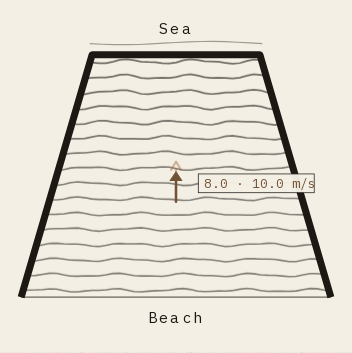
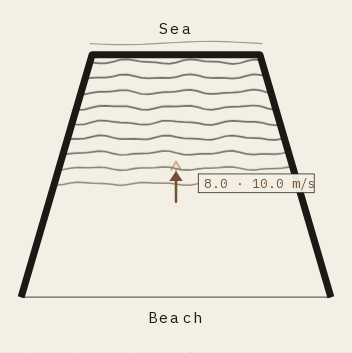
Fix sea overwash gap and steepen plan shelter gradient
Sea mode: draw open-water waves after the wall fill, stack crest-column
strokes from surface down to the crest, and cap with a 2px ink join so
the wall column is not a hollow paper band (the crest Y clamp was wrong).

Plan: sample shelter along each wind row (not max across the row), keep
wind boost out of the calm band, lower CALM_ROUGHNESS_MULT, and use a
shorter cubic ramp. QA checks crest gap across the full wall width.

diff --git a/components/section-canvas.tsx b/components/section-canvas.tsx
@@ -11,7 +11,6 @@ import {
   heldRipple,
   heldSurface,
   resolveSection,
-  seaWashClearsWall,
   surfaceRipple,
   swellOffset,
   waterlineU,
@@ -186,34 +185,27 @@ function paint(
 
   const ySurface = (u: number) => yOf(surface(u));
 
-  const band = (u0: number, u1: number) => {
+  const waveY = (depth: number) => (u: number) => {
+    const y = ySurface(u) + depth;
+    if (section.mode === "sea" && u >= WALL_U0 && u <= WALL_U1) {
+      if (surface(u) <= 1) return Number.NaN;
+      if (y >= wallY - 1) return Number.NaN;
+    }
+    return y;
+  };
+
+  const waveBand = (u0: number, u1: number) => {
     if (u1 - u0 < 0.08) return;
-    drawRuns(ctx, u0, u1, ySurface, 1.55, 0.92);
+    drawRuns(ctx, u0, u1, waveY(0), 1.55, 0.92);
     for (let i = 1; i <= motion.lines; i++) {
       const depth = 5 + i * (6 + section.chopLevel * 0.6);
       const alpha = Math.max(0.1, 0.48 - i * 0.05);
-      drawRuns(ctx, u0, u1, (u) => ySurface(u) + depth, 0.8, alpha);
+      drawRuns(ctx, u0, u1, waveY(depth), 0.8, alpha);
     }
   };
 
-  /** Strokes over the crest only. Anything at or below the crest would cut the wall. */
-  const washOverCrest = (u0: number, u1: number) => {
-    if (u1 - u0 < 0.08) return;
-    const crestInkY = yOf(1);
-    const yIfClear = (depth: number) => (u: number) => {
-      if (!seaWashClearsWall(surface(u), depth, PX)) return Number.NaN;
-      return Math.max(ySurface(u) + depth, crestInkY);
-    };
-    drawRuns(ctx, u0, u1, yIfClear(0), 1.45, 0.94);
-    for (let i = 1; i <= motion.lines; i++) {
-      const depth = 5 + i * (6 + section.chopLevel * 0.6);
-      const alpha = Math.max(0.12, 0.5 - i * 0.045);
-      drawRuns(ctx, u0, u1, yIfClear(depth), 0.85, alpha);
-    }
-  };
-
-  band(Math.min(shore, WALL_U0), WALL_U0);
-  band(WALL_U1, RATIO_SUM);
+  waveBand(Math.min(shore, WALL_U0), WALL_U0);
+  if (section.mode !== "sea") waveBand(WALL_U1, RATIO_SUM);
 
   stroke(ctx, chalkPoints(0, WALL_U0, 0), 1.75, 0.95);
   stroke(ctx, chalkPoints(WALL_U1, RATIO_SUM, 0), 1.75, 0.95);
@@ -263,9 +255,34 @@ function paint(
   ctx.strokeStyle = INK;
   ctx.lineWidth = 2.2;
   ctx.lineJoin = "miter";
-  ctx.strokeRect(wallX, wallY, wallW, wallH);
+  if (section.mode === "sea") {
+    ctx.beginPath();
+    ctx.moveTo(wallX, wallY + wallH);
+    ctx.lineTo(wallX, wallY);
+    ctx.moveTo(wallX + wallW, wallY);
+    ctx.lineTo(wallX + wallW, wallY + wallH);
+    ctx.moveTo(wallX, wallY + wallH);
+    ctx.lineTo(wallX + wallW, wallY + wallH);
+    ctx.stroke();
+  } else {
+    ctx.strokeRect(wallX, wallY, wallW, wallH);
+  }
 
-  if (section.mode === "sea") washOverCrest(WALL_U0, WALL_U1);
+  if (section.mode === "sea") {
+    waveBand(WALL_U0, RATIO_SUM);
+    let minSurfaceY = Infinity;
+    for (let u = WALL_U0; u <= WALL_U1 + 1e-6; u += 0.05) {
+      if (surface(u) <= 1) continue;
+      minSurfaceY = Math.min(minSurfaceY, ySurface(u));
+    }
+    if (Number.isFinite(minSurfaceY) && minSurfaceY < wallY - 1.5) {
+      for (let y = minSurfaceY; y <= wallY; y += 1.75) {
+        drawRuns(ctx, WALL_U0, WALL_U1, () => y, 1.2, 0.94);
+      }
+      ctx.fillStyle = INK;
+      ctx.fillRect(wallX, wallY - 1, wallW, 2.2);
+    }
+  }
 }
 
 export function SectionCanvas({

diff --git a/lib/shelter.ts b/lib/shelter.ts
@@ -25,8 +25,10 @@ export type PlanShelterInput = {
 const WALL_CALM_FRAC = 0.1;
 const BEACH_CALM_FRAC = 0.3;
 const SIDE_CALM_FRAC = 0.1;
-/** Calm-band floor as a share of forecast chop — still inks at ~3 m/s. */
-const CALM_ROUGHNESS_MULT = 0.42;
+/** Calm-band floor — near-empty ink, not a second full chop field. */
+export const CALM_ROUGHNESS_MULT = 0.06;
+/** After the calm band, reach full chop over this share of pool depth (steeper than a linear ramp). */
+export const SHELTER_RAMP_FRAC = 0.32;
 
 /** At or below this mean, the whole pool is the quiet patch. Metres per second. */
 export const QUIET_CALM_MS = 2.5;
@@ -190,8 +192,10 @@ export function graduatedShelterMultiplier(
   if (calmFrac <= 0) return 1;
   const u = planUpwindFraction(point, input.fromDeg);
   if (u <= calmFrac) return CALM_ROUGHNESS_MULT;
-  const t = (u - calmFrac) / (1 - calmFrac);
-  const eased = t * t * (3 - 2 * t);
+  const rampEnd = Math.min(1, calmFrac + SHELTER_RAMP_FRAC);
+  if (u >= rampEnd) return 1;
+  const t = (u - calmFrac) / (rampEnd - calmFrac);
+  const eased = t * t * t;
   return CALM_ROUGHNESS_MULT + eased * (1 - CALM_ROUGHNESS_MULT);
 }
 

diff --git a/components/plan-view.tsx b/components/plan-view.tsx
@@ -185,19 +185,16 @@ function RoughnessField({
     );
     const half = reach * 1.15;
     const stepY = PLAN_CHOP_ROW_GAP;
-    const stepX = 11;
 
     for (let ly = -half; ly <= half; ly += stepY) {
-      let rough = 0;
-      for (let lx = -half; lx <= half; lx += stepX) {
-        const sample = roughnessAt(
-          localToPlan(lx, ly, mid, travel, layout),
-          chopLevel,
-          shelter,
-          meanMs ?? 0,
-        );
-        rough = Math.max(rough, sample + windBoost * (1 - sample * 0.35));
-      }
+      const sample = roughnessAt(
+        localToPlan(0, ly, mid, travel, layout),
+        chopLevel,
+        shelter,
+        meanMs ?? 0,
+      );
+      const rough =
+        sample < 0.08 ? sample : sample + windBoost * (1 - sample * 0.35);
       const ink = planChopInk(rough);
       if (!ink) continue;
       const drift = phase + ly * 0.04;

diff --git a/lib/plan-roughness.test.ts b/lib/plan-roughness.test.ts
@@ -7,11 +7,12 @@ test("a light breeze still inks sparse chop, including a sheltered step-down", (
   const open = roughnessAt({ x: 0, y: -40 }, 2, null, 3.2);
   const northWind = { fromDeg: 0, compass: "N", wallShelters: true };
   const sheltered = roughnessAt({ x: 0, y: poolPlanCorners().nw.y }, 2, northWind, 3.2);
-  const exposed = roughnessAt({ x: 0, y: -40 }, 1, northWind, 3.2);
+  const beach = poolPlanCorners().se;
+  const exposed = roughnessAt(beach, 2, northWind, 3.2);
   assert.ok(open >= 0.22);
-  assert.ok(sheltered >= 0.08);
-  assert.ok(exposed > sheltered);
-  const ink = planChopInk(sheltered);
+  assert.ok(sheltered < exposed * 0.35);
+  assert.ok(exposed >= 0.22);
+  const ink = planChopInk(exposed);
   assert.ok(ink);
   assert.ok(ink.opacity >= 0.45);
   assert.ok(ink.width >= 1.1);

diff --git a/lib/shelter.test.ts b/lib/shelter.test.ts
@@ -15,7 +15,11 @@ test("graduated shelter is calm upwind and ramps to full chop downwind", () => {
   const north = { fromDeg: 0, compass: "N", wallShelters: true };
   const wall = { x: 0, y: poolOutline()[0].y };
   const beach = { x: 0, y: poolOutline()[2].y };
-  assert.ok(graduatedShelterMultiplier(wall, north, 6) < graduatedShelterMultiplier(beach, north, 6));
+  const calmWall = graduatedShelterMultiplier(wall, north, 6);
+  const openBeach = graduatedShelterMultiplier(beach, north, 6);
+  assert.ok(calmWall < openBeach);
+  assert.ok(calmWall <= 0.08);
+  assert.equal(openBeach, 1);
   assert.ok(planCalmBandFraction(0, true) === 0.1);
   assert.equal(planCalmBandFraction(0, false), 0);
   assert.equal(planCalmBandFraction(180, true), 0.3);
